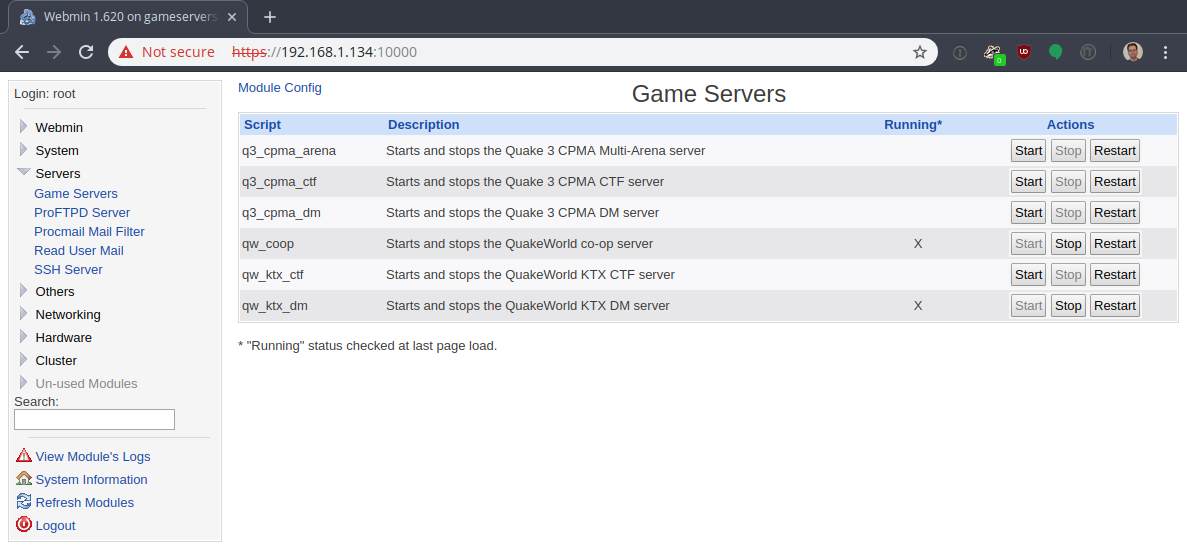
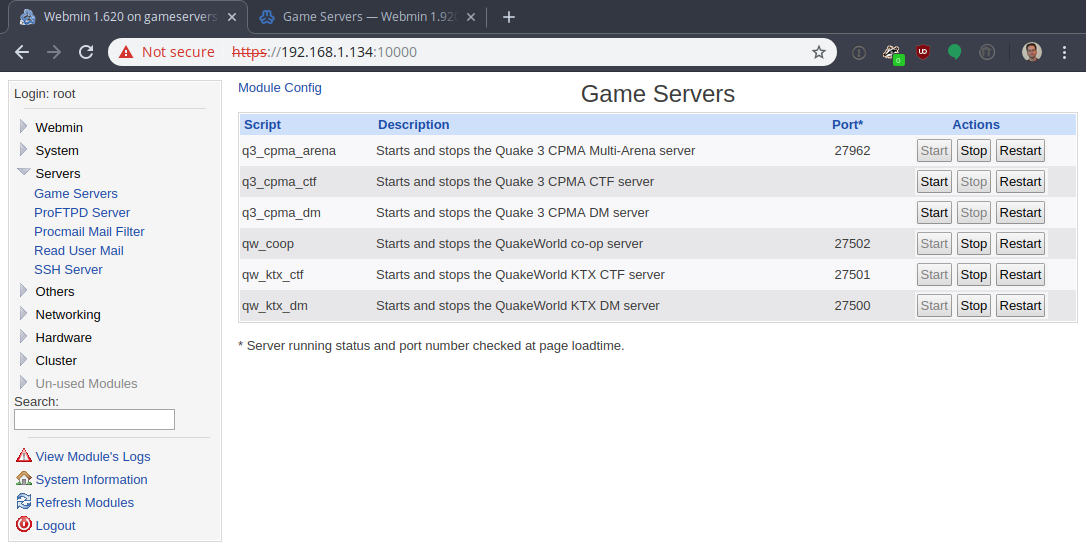
advertise port number for game servers
Provide a "port" command for the init scripts; also make use of that in the webmin plugin.

diff --git a/README.md b/README.md
@@ -16,8 +16,6 @@ Init scripts are useful if you want to autostart one or more servers when the ho
 
 Even if you don't want that behavior, init scripts can also be invoked manually to stop/start/restart servers and check whether a server is running, and they will refuse to start a particular server if it is already running.  Servers run through these init scripts will be run as background "daemon" processes, so they don't tie up a terminal window.  Init scripts also provide a nice hook to use with Webmin.
 
-__\* ! \*__ Currently if you try to start a server when it is already running, the script will just silently do nothing.  It would be better to have it print a warning.
-
 In this setup, a distinct "server" is not just an executable but also some combination of options and assets.  Each init script specifies some variables that define a specific server.
 
 So for example you could have one init script for a Quake 3 CTF server, another script for a small-playercount Quake 3 DM server, and another script for a large-playercount Quake 3 DM server.  Even though they all use a Quake 3 executable, you could run them all at the same time (if your host is beefy enough).  But if you tried to start "small-playercount Quake 3 DM server" while an instance of "small-playercount Quake 3 DM server" was already running, that start command would be rejected.
@@ -42,6 +40,15 @@ common code: "gameserver.sh"
 
 The core of the game server init script logic is in "/lib/init/gameserver.sh".  This is generic code that implements start/stop/restart/status commands for any game server.  You should *not* need to modify "gameserver.sh" in any way when installing, uninstalling, or reconfiguring a server.
 
+"gameserver.sh" also implements a "port" command for game server init scripts. This command will print the current port of the gameserver if it is running. (If it is not running, nothing will be printed.) For example to see the port number of the q3_cpma_arena server you could run the command
+```
+/etc/init.d/q3_cpma_arena port
+```
+or on more recent versions of Debian you could also do
+```
+service q3_cpma_arena port
+```
+
 An init script that uses "gameserver.sh" should first define these variables to describe a specific game server:
 
 * COMMAND : complete path to a file that can be executed to launch the server
@@ -53,8 +60,9 @@ The "gameserver.sh" code makes a couple of assumptions based on these variables:
 
 * The working directory for executing COMMAND will be the directory where the COMMAND file is located.
 * The PID file will be created as ${COMMAND}.pid
+* While a game server is running, the file ${COMMAND}.port will contain its port number.
 
-The PID file location is not configurable in the init script because I want to make sure that normal fiddling with server configuration won't make the init script and command script disagree about where the PID file is located.  Similarly on the command-script side of things, the PID file location is determined internally rather than being affected by normal configuration changes.
+Those PID and port file locations are not configurable in the init script because I want to make sure that normal fiddling with server configuration won't make the init script and command script disagree about where the files are located.  Similarly on the command-script side of things, the PID and port file locations are determined internally rather than being affected by normal configuration changes.
 
 Command Scripts
 ===============
@@ -92,7 +100,7 @@ Command scripts should have execute permissions if you want to run them manually
 common code: "myip"
 -------------------
 
-"scriptlib/myip" is a script that returns the IP address that will be used to connect to a server, since server launch invocations tend to need that information.  This is a dumb/simple script that only works if the host has a single net interface.  It is used by "server\_loop".
+"scriptlib/myip" is a script that returns the IP address that will be used to connect to a server, since server launch invocations tend to need that information.  It is used by "server\_loop".
 
 Also I run it manually every now and then, since I actually run these servers in a portable VM that gets a dynamic IP address.  It's a quick way to find the address the servers will be using.
 
@@ -103,11 +111,12 @@ __\* ! \*__ On a multi-interface host, "myip" will pick one of the IP addresses.
 common code: "server\_loop"
 ---------------------------
 
-"scriptlib/server\_loop" is the main script that runs a server executable and restarts it if it crashes.  "server\_loop" manages creating and deleting the PID files that the init scripts use to determine if a server is currently running.  You should *not* need to modify "server\_loop" in any way when installing, uninstalling, or reconfiguring a server.
+"scriptlib/server\_loop" is the main script that runs a server executable and restarts it if it crashes.  "server\_loop" manages creating and deleting the PID and port files that the init scripts use.  You should *not* need to modify "server\_loop" in any way when installing, uninstalling, or reconfiguring a server.
 
 A command script should set up these variables before using "server\_loop":
 
 * SERVERROOT : working directory used when launching the server
+* SERVERPORT : port number the server will be listening on
 * CMDLINE : command line for launching the server
 
 The section below on the servers directory structure has some discussion on how you might want to arrange the working directories for your servers.
